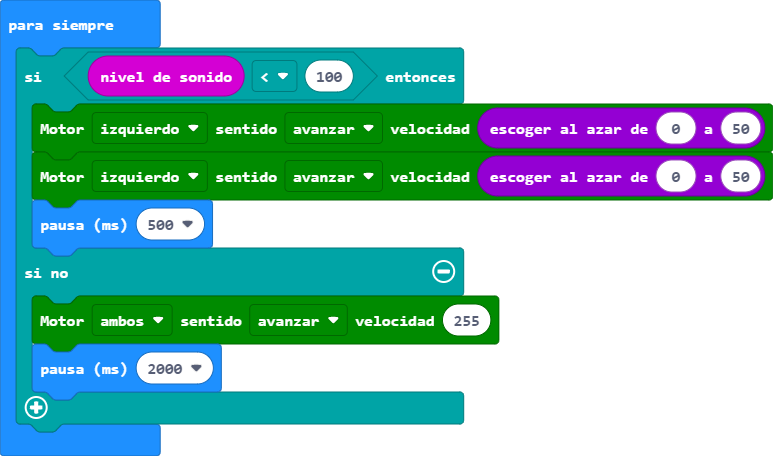
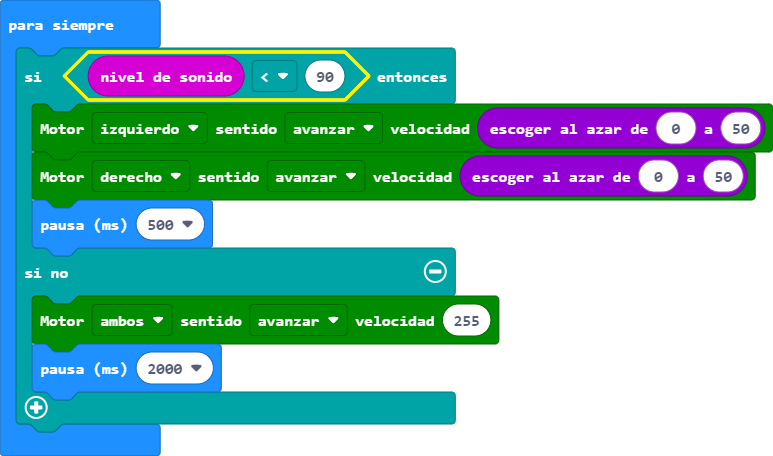
Actualizar main.blocks, main.ts

diff --git a/main.ts b/main.ts
@@ -1,7 +1,7 @@
 basic.forever(function () {
-    if (input.soundLevel() < 100) {
+    if (input.soundLevel() < 90) {
         maqueen.motorRun(maqueen.Motors.M1, maqueen.Dir.CW, randint(0, 50))
-        maqueen.motorRun(maqueen.Motors.M1, maqueen.Dir.CW, randint(0, 50))
+        maqueen.motorRun(maqueen.Motors.M2, maqueen.Dir.CW, randint(0, 50))
         basic.pause(500)
     } else {
         maqueen.motorRun(maqueen.Motors.All, maqueen.Dir.CW, 255)
